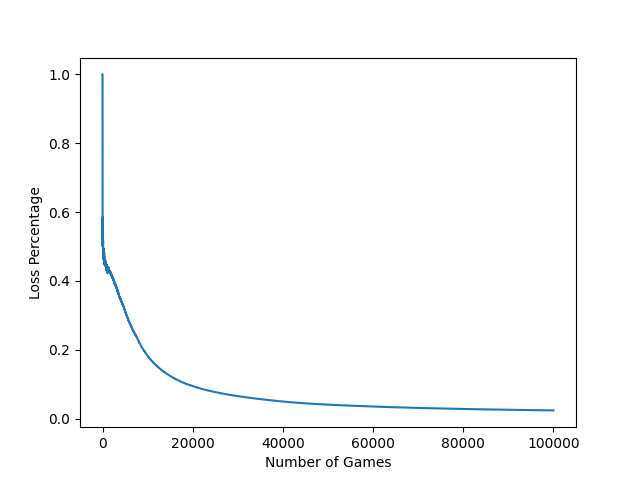
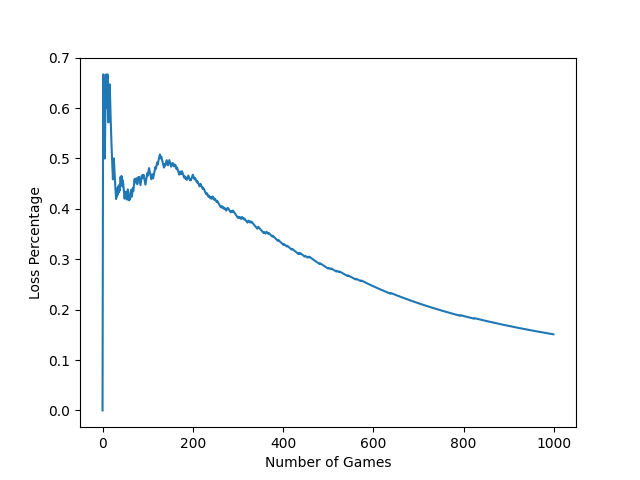
Minor Bug Fix

diff --git a/src/Main.py b/src/Main.py
@@ -51,18 +51,20 @@ def play(env, players, display=False):
 if __name__ == '__main__':
 
 	TicENV = Environments.TicTacToeState
-	players = [Agents.QTable(0.99939), Agents.QTable(0.99939)]  # Agents.QTable(0.99995)
+	players = [Agents.QTable(0.99083), Agents.QTable(0.99083)]  # Agents.QTable(0.99995) #0.99939
 
 	history = []
 
 	print("Started...")
 
-	for n in range(100000):
+	for n in range(1000):
 
 		if (n+1) % (100) == 0:
 			print("Game {}".format(n+1))
 		play(TicENV, players, display=False)
 		history.append(players[0].getPercentages())
+
+	play(TicENV, players, display=True)
 
 	winPercentage = []
 	drawPercentage = []

diff --git a/src/Agents.py b/src/Agents.py
@@ -314,7 +314,8 @@ class MCTS(Agent):
 		return leaf  # in addition to returning the terminal leaf, we must also return wheither that leaf won, lost, or drawed because we need to know if we should increment the win count of the Root Node
 
 
-	def backpropagate(self, root, end):
+	@staticmethod
+	def backpropagate(root, end):
 
 		node = end
 
@@ -330,7 +331,8 @@ class MCTS(Agent):
 				node.w += 1
 
 
-	def selectBest(self, node):
+	@staticmethod
+	def selectBest(node):
 		best = [0]
 		children = []
 
